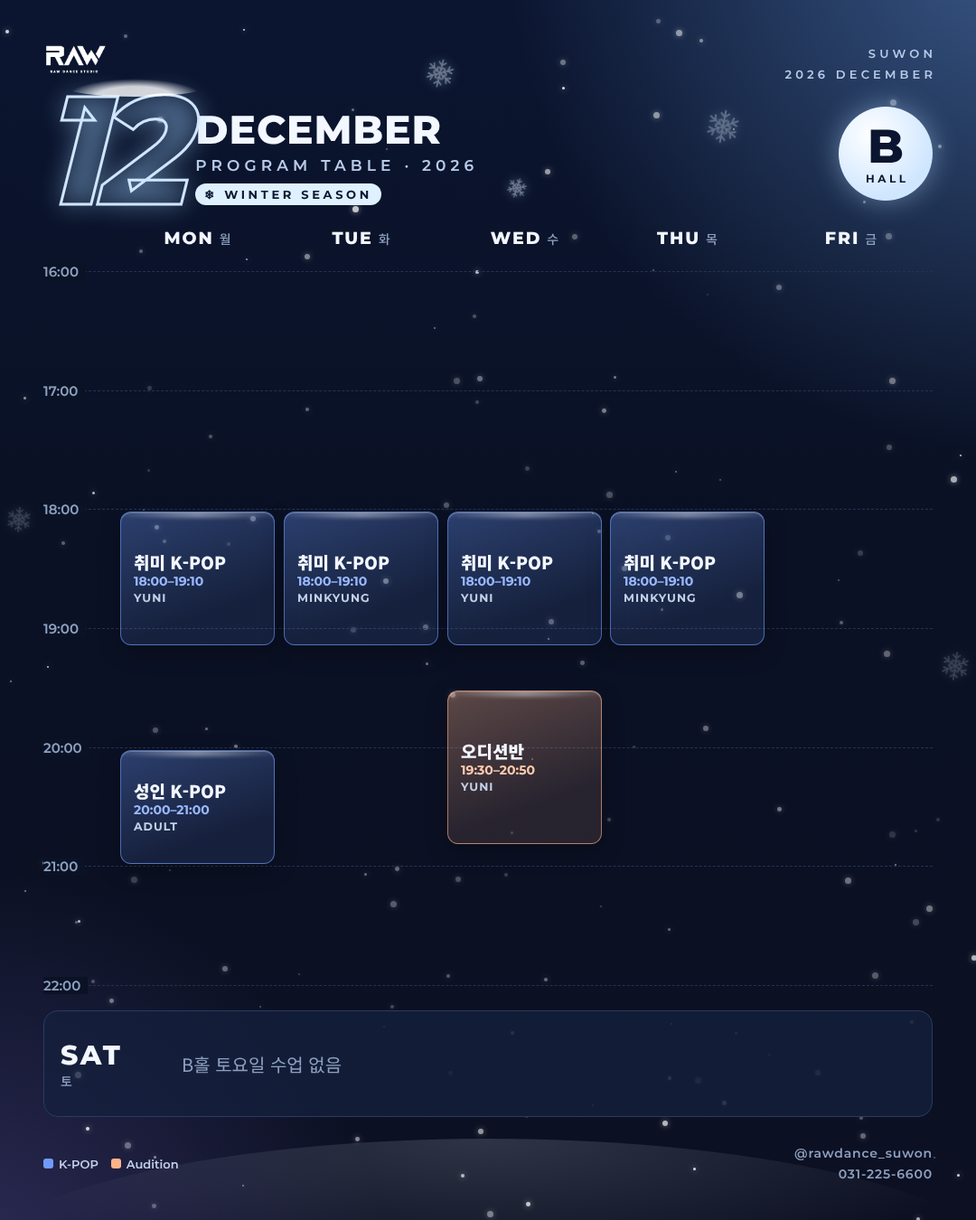
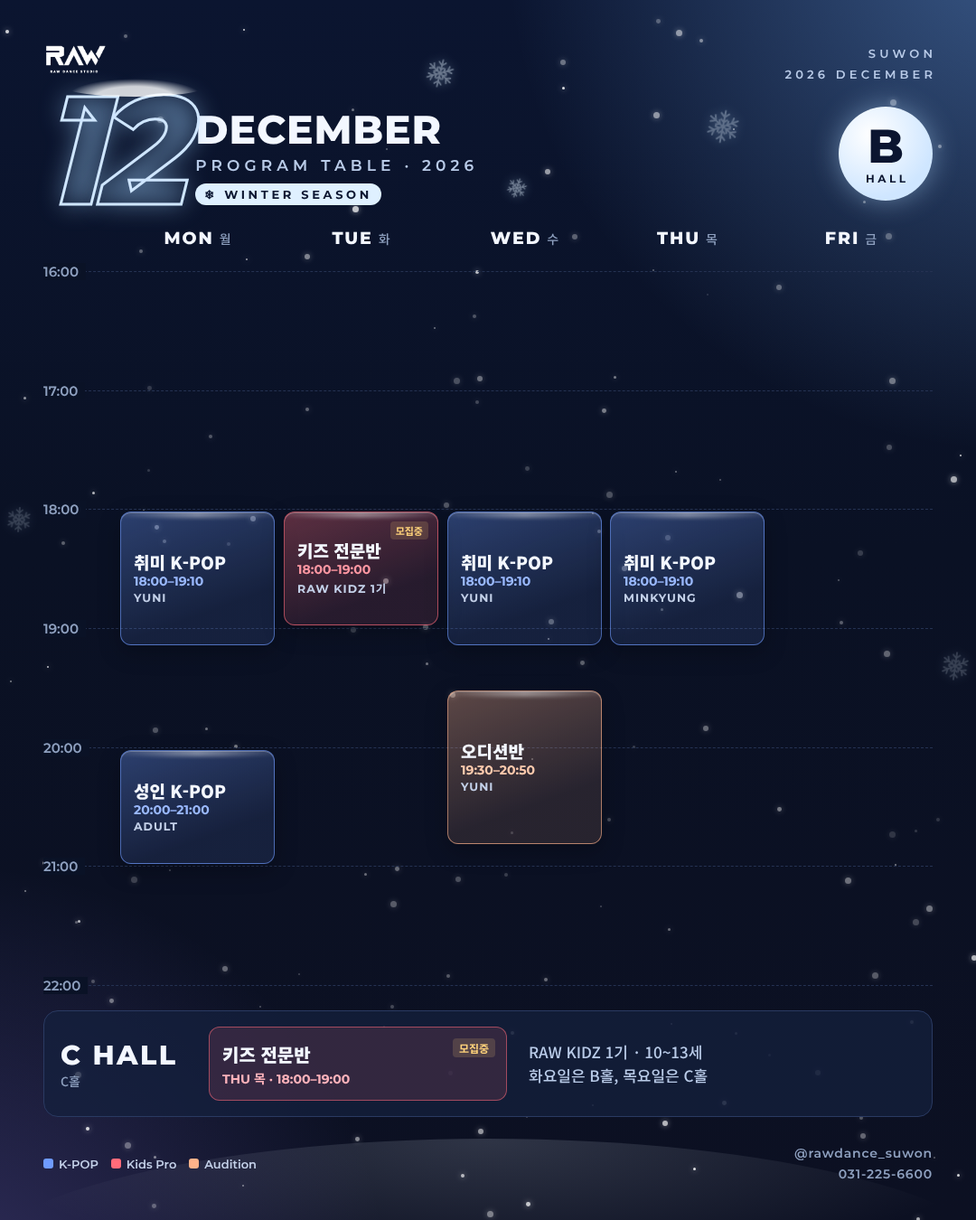
12월 시간표: 화 키즈 전문반(B홀)·목 키즈 전문반(C홀 띠), 화 취미 K-POP 삭제
Claude-Session: https://claude.ai/code/session_01CMPXWNa21Fqq6srPZpa27D

diff --git a/content/2026-12-01_timetable-december/hall-b-2026-12-reels.html b/content/2026-12-01_timetable-december/hall-b-2026-12-reels.html
@@ -37,6 +37,9 @@ body{background:linear-gradient(180deg,#0b1530 0%,#0a1124 45%,#0c1022 100%);colo
 .sc b{font-family:"Noto Sans KR";font-weight:900;font-size:20px}.sc span{font-size:14px;font-weight:700;color:#a9c8ff}
 .sc em{position:absolute;right:12px;top:12px;font-style:normal;font-family:"Noto Sans KR";font-size:12px;font-weight:700;color:#ffd27a;background:rgba(255,210,122,.16);padding:2px 7px;border-radius:4px}
 .sat.empty p{font-family:"Noto Sans KR";font-size:20px;color:#8ea0bf}
+.sc.kp{flex:0 0 330px;border-color:rgba(255,107,122,.55);background:rgba(255,107,122,.14)}.sc.kp span{color:#ffb3bb}
+.cn{font-family:"Noto Sans KR";font-size:17px;font-weight:500;line-height:1.55;color:#b9cbe8;margin-left:10px}
+.bd{position:absolute;right:10px;top:10px;font-style:normal;font-family:"Noto Sans KR";font-size:11px;font-weight:700;color:#ffd27a;background:rgba(255,210,122,.16);padding:2px 6px;border-radius:4px}
 .ft{position:absolute;left:48px;right:48px;bottom:250px;display:flex;justify-content:space-between;align-items:center}
 .lg{display:flex;flex-wrap:wrap;gap:6px 14px;font-size:13px;font-weight:600;color:#c3d0e8;max-width:700px}
 .lg span{display:flex;align-items:center;gap:6px}.lg i{display:block;width:11px;height:11px;border-radius:3px}
@@ -46,6 +49,6 @@ body{background:linear-gradient(180deg,#0b1530 0%,#0a1124 45%,#0c1022 100%);colo
 <div class="top"><img src="raw-logo.png"><div class="r">SUWON<br>2026 DECEMBER</div></div>
 <div class="hero"><div class="n"><div class="cap"></div>12</div><div class="t"><b>DECEMBER</b><span>PROGRAM TABLE · 2026</span><em>❄ WINTER SEASON</em></div></div>
 <div class="hall"><b>B</b><span>HALL</span></div>
-<div class="dh" style="left:128px;width:181px">MON<small>월</small></div><div class="dh" style="left:309px;width:181px">TUE<small>화</small></div><div class="dh" style="left:490px;width:181px">WED<small>수</small></div><div class="dh" style="left:670px;width:181px">THU<small>목</small></div><div class="dh" style="left:851px;width:181px">FRI<small>금</small></div><div class="rl" style="top:540px"><span>16:00</span></div><div class="rl" style="top:690px"><span>17:00</span></div><div class="rl" style="top:840px"><span>18:00</span></div><div class="rl" style="top:990px"><span>19:00</span></div><div class="rl" style="top:1140px"><span>20:00</span></div><div class="rl" style="top:1290px"><span>21:00</span></div><div class="rl" style="top:1440px"><span>22:00</span></div><div class="b" style="left:133px;top:843px;width:171px;height:169px;--c:#6f9bff"><b>취미 K-POP</b><span>18:00–19:10</span><small>YUNI</small></div><div class="b" style="left:314px;top:843px;width:171px;height:169px;--c:#6f9bff"><b>취미 K-POP</b><span>18:00–19:10</span><small>MINKYUNG</small></div><div class="b" style="left:495px;top:843px;width:171px;height:169px;--c:#6f9bff"><b>취미 K-POP</b><span>18:00–19:10</span><small>YUNI</small></div><div class="b" style="left:675px;top:843px;width:171px;height:169px;--c:#6f9bff"><b>취미 K-POP</b><span>18:00–19:10</span><small>MINKYUNG</small></div><div class="b" style="left:495px;top:1068px;width:171px;height:194px;--c:#ffb38a"><b>오디션반</b><span>19:30–20:50</span><small>YUNI</small></div><div class="b" style="left:133px;top:1143px;width:171px;height:144px;--c:#6f9bff"><b>성인 K-POP</b><span>20:00–21:00</span><small>ADULT</small></div><div class="sat empty"><div class="sl">SAT<small>토</small></div><p>B홀 토요일 수업 없음</p></div>
-<div class="ft"><div class="lg"><span><i style="background:#6f9bff"></i>K-POP</span><span><i style="background:#ffb38a"></i>Audition</span></div><div class="ct">@rawdance_suwon<br>031-225-6600</div></div>
+<div class="dh" style="left:128px;width:181px">MON<small>월</small></div><div class="dh" style="left:309px;width:181px">TUE<small>화</small></div><div class="dh" style="left:490px;width:181px">WED<small>수</small></div><div class="dh" style="left:670px;width:181px">THU<small>목</small></div><div class="dh" style="left:851px;width:181px">FRI<small>금</small></div><div class="rl" style="top:540px"><span>16:00</span></div><div class="rl" style="top:690px"><span>17:00</span></div><div class="rl" style="top:840px"><span>18:00</span></div><div class="rl" style="top:990px"><span>19:00</span></div><div class="rl" style="top:1140px"><span>20:00</span></div><div class="rl" style="top:1290px"><span>21:00</span></div><div class="rl" style="top:1440px"><span>22:00</span></div><div class="b" style="left:133px;top:843px;width:171px;height:169px;--c:#6f9bff"><b>취미 K-POP</b><span>18:00–19:10</span><small>YUNI</small></div><div class="b" style="left:495px;top:843px;width:171px;height:169px;--c:#6f9bff"><b>취미 K-POP</b><span>18:00–19:10</span><small>YUNI</small></div><div class="b" style="left:675px;top:843px;width:171px;height:169px;--c:#6f9bff"><b>취미 K-POP</b><span>18:00–19:10</span><small>MINKYUNG</small></div><div class="b" style="left:314px;top:843px;width:171px;height:144px;--c:#ff6b7a"><b>키즈 전문반</b><span>18:00–19:00</span><small>RAW KIDZ 1기</small><em class="bd">모집중</em></div><div class="b" style="left:495px;top:1068px;width:171px;height:194px;--c:#ffb38a"><b>오디션반</b><span>19:30–20:50</span><small>YUNI</small></div><div class="b" style="left:133px;top:1143px;width:171px;height:144px;--c:#6f9bff"><b>성인 K-POP</b><span>20:00–21:00</span><small>ADULT</small></div><div class="sat"><div class="sl" style="width:150px;white-space:nowrap">C HALL<small>C홀</small></div><div class="sc kp"><b>키즈 전문반</b><span>THU 목 · 18:00–19:00</span><em>모집중</em></div><p class="cn">RAW KIDZ 1기 · 10~13세<br>화요일은 B홀, 목요일은 C홀</p></div>
+<div class="ft"><div class="lg"><span><i style="background:#6f9bff"></i>K-POP</span><span><i style="background:#ff6b7a"></i>Kids Pro</span><span><i style="background:#ffb38a"></i>Audition</span></div><div class="ct">@rawdance_suwon<br>031-225-6600</div></div>
 </body></html>

diff --git a/content/2026-12-01_timetable-december/hall-b-2026-12.html b/content/2026-12-01_timetable-december/hall-b-2026-12.html
@@ -37,6 +37,9 @@ body{background:linear-gradient(180deg,#0b1530 0%,#0a1124 45%,#0c1022 100%);colo
 .sc b{font-family:"Noto Sans KR";font-weight:900;font-size:20px}.sc span{font-size:14px;font-weight:700;color:#a9c8ff}
 .sc em{position:absolute;right:12px;top:12px;font-style:normal;font-family:"Noto Sans KR";font-size:12px;font-weight:700;color:#ffd27a;background:rgba(255,210,122,.16);padding:2px 7px;border-radius:4px}
 .sat.empty p{font-family:"Noto Sans KR";font-size:20px;color:#8ea0bf}
+.sc.kp{flex:0 0 330px;border-color:rgba(255,107,122,.55);background:rgba(255,107,122,.14)}.sc.kp span{color:#ffb3bb}
+.cn{font-family:"Noto Sans KR";font-size:17px;font-weight:500;line-height:1.55;color:#b9cbe8;margin-left:10px}
+.bd{position:absolute;right:10px;top:10px;font-style:normal;font-family:"Noto Sans KR";font-size:11px;font-weight:700;color:#ffd27a;background:rgba(255,210,122,.16);padding:2px 6px;border-radius:4px}
 .ft{position:absolute;left:48px;right:48px;bottom:40px;display:flex;justify-content:space-between;align-items:center}
 .lg{display:flex;flex-wrap:wrap;gap:6px 14px;font-size:13px;font-weight:600;color:#c3d0e8;max-width:700px}
 .lg span{display:flex;align-items:center;gap:6px}.lg i{display:block;width:11px;height:11px;border-radius:3px}
@@ -46,6 +49,6 @@ body{background:linear-gradient(180deg,#0b1530 0%,#0a1124 45%,#0c1022 100%);colo
 <div class="top"><img src="raw-logo.png"><div class="r">SUWON<br>2026 DECEMBER</div></div>
 <div class="hero"><div class="n"><div class="cap"></div>12</div><div class="t"><b>DECEMBER</b><span>PROGRAM TABLE · 2026</span><em>❄ WINTER SEASON</em></div></div>
 <div class="hall"><b>B</b><span>HALL</span></div>
-<div class="dh" style="left:128px;width:181px">MON<small>월</small></div><div class="dh" style="left:309px;width:181px">TUE<small>화</small></div><div class="dh" style="left:490px;width:181px">WED<small>수</small></div><div class="dh" style="left:670px;width:181px">THU<small>목</small></div><div class="dh" style="left:851px;width:181px">FRI<small>금</small></div><div class="rl" style="top:300px"><span>16:00</span></div><div class="rl" style="top:432px"><span>17:00</span></div><div class="rl" style="top:563px"><span>18:00</span></div><div class="rl" style="top:695px"><span>19:00</span></div><div class="rl" style="top:827px"><span>20:00</span></div><div class="rl" style="top:958px"><span>21:00</span></div><div class="rl" style="top:1090px"><span>22:00</span></div><div class="b" style="left:133px;top:566px;width:171px;height:148px;--c:#6f9bff"><b>취미 K-POP</b><span>18:00–19:10</span><small>YUNI</small></div><div class="b" style="left:314px;top:566px;width:171px;height:148px;--c:#6f9bff"><b>취미 K-POP</b><span>18:00–19:10</span><small>MINKYUNG</small></div><div class="b" style="left:495px;top:566px;width:171px;height:148px;--c:#6f9bff"><b>취미 K-POP</b><span>18:00–19:10</span><small>YUNI</small></div><div class="b" style="left:675px;top:566px;width:171px;height:148px;--c:#6f9bff"><b>취미 K-POP</b><span>18:00–19:10</span><small>MINKYUNG</small></div><div class="b" style="left:495px;top:764px;width:171px;height:170px;--c:#ffb38a"><b>오디션반</b><span>19:30–20:50</span><small>YUNI</small></div><div class="b" style="left:133px;top:830px;width:171px;height:126px;--c:#6f9bff"><b>성인 K-POP</b><span>20:00–21:00</span><small>ADULT</small></div><div class="sat empty"><div class="sl">SAT<small>토</small></div><p>B홀 토요일 수업 없음</p></div>
-<div class="ft"><div class="lg"><span><i style="background:#6f9bff"></i>K-POP</span><span><i style="background:#ffb38a"></i>Audition</span></div><div class="ct">@rawdance_suwon<br>031-225-6600</div></div>
+<div class="dh" style="left:128px;width:181px">MON<small>월</small></div><div class="dh" style="left:309px;width:181px">TUE<small>화</small></div><div class="dh" style="left:490px;width:181px">WED<small>수</small></div><div class="dh" style="left:670px;width:181px">THU<small>목</small></div><div class="dh" style="left:851px;width:181px">FRI<small>금</small></div><div class="rl" style="top:300px"><span>16:00</span></div><div class="rl" style="top:432px"><span>17:00</span></div><div class="rl" style="top:563px"><span>18:00</span></div><div class="rl" style="top:695px"><span>19:00</span></div><div class="rl" style="top:827px"><span>20:00</span></div><div class="rl" style="top:958px"><span>21:00</span></div><div class="rl" style="top:1090px"><span>22:00</span></div><div class="b" style="left:133px;top:566px;width:171px;height:148px;--c:#6f9bff"><b>취미 K-POP</b><span>18:00–19:10</span><small>YUNI</small></div><div class="b" style="left:495px;top:566px;width:171px;height:148px;--c:#6f9bff"><b>취미 K-POP</b><span>18:00–19:10</span><small>YUNI</small></div><div class="b" style="left:675px;top:566px;width:171px;height:148px;--c:#6f9bff"><b>취미 K-POP</b><span>18:00–19:10</span><small>MINKYUNG</small></div><div class="b" style="left:314px;top:566px;width:171px;height:126px;--c:#ff6b7a"><b>키즈 전문반</b><span>18:00–19:00</span><small>RAW KIDZ 1기</small><em class="bd">모집중</em></div><div class="b" style="left:495px;top:764px;width:171px;height:170px;--c:#ffb38a"><b>오디션반</b><span>19:30–20:50</span><small>YUNI</small></div><div class="b" style="left:133px;top:830px;width:171px;height:126px;--c:#6f9bff"><b>성인 K-POP</b><span>20:00–21:00</span><small>ADULT</small></div><div class="sat"><div class="sl" style="width:150px;white-space:nowrap">C HALL<small>C홀</small></div><div class="sc kp"><b>키즈 전문반</b><span>THU 목 · 18:00–19:00</span><em>모집중</em></div><p class="cn">RAW KIDZ 1기 · 10~13세<br>화요일은 B홀, 목요일은 C홀</p></div>
+<div class="ft"><div class="lg"><span><i style="background:#6f9bff"></i>K-POP</span><span><i style="background:#ff6b7a"></i>Kids Pro</span><span><i style="background:#ffb38a"></i>Audition</span></div><div class="ct">@rawdance_suwon<br>031-225-6600</div></div>
 </body></html>

diff --git a/content/2026-12-01_timetable-december/hall-a-2026-12-reels.html b/content/2026-12-01_timetable-december/hall-a-2026-12-reels.html
@@ -37,6 +37,9 @@ body{background:linear-gradient(180deg,#0b1530 0%,#0a1124 45%,#0c1022 100%);colo
 .sc b{font-family:"Noto Sans KR";font-weight:900;font-size:20px}.sc span{font-size:14px;font-weight:700;color:#a9c8ff}
 .sc em{position:absolute;right:12px;top:12px;font-style:normal;font-family:"Noto Sans KR";font-size:12px;font-weight:700;color:#ffd27a;background:rgba(255,210,122,.16);padding:2px 7px;border-radius:4px}
 .sat.empty p{font-family:"Noto Sans KR";font-size:20px;color:#8ea0bf}
+.sc.kp{flex:0 0 330px;border-color:rgba(255,107,122,.55);background:rgba(255,107,122,.14)}.sc.kp span{color:#ffb3bb}
+.cn{font-family:"Noto Sans KR";font-size:17px;font-weight:500;line-height:1.55;color:#b9cbe8;margin-left:10px}
+.bd{position:absolute;right:10px;top:10px;font-style:normal;font-family:"Noto Sans KR";font-size:11px;font-weight:700;color:#ffd27a;background:rgba(255,210,122,.16);padding:2px 6px;border-radius:4px}
 .ft{position:absolute;left:48px;right:48px;bottom:250px;display:flex;justify-content:space-between;align-items:center}
 .lg{display:flex;flex-wrap:wrap;gap:6px 14px;font-size:13px;font-weight:600;color:#c3d0e8;max-width:700px}
 .lg span{display:flex;align-items:center;gap:6px}.lg i{display:block;width:11px;height:11px;border-radius:3px}

diff --git a/content/2026-12-01_timetable-december/hall-a-2026-12.html b/content/2026-12-01_timetable-december/hall-a-2026-12.html
@@ -37,6 +37,9 @@ body{background:linear-gradient(180deg,#0b1530 0%,#0a1124 45%,#0c1022 100%);colo
 .sc b{font-family:"Noto Sans KR";font-weight:900;font-size:20px}.sc span{font-size:14px;font-weight:700;color:#a9c8ff}
 .sc em{position:absolute;right:12px;top:12px;font-style:normal;font-family:"Noto Sans KR";font-size:12px;font-weight:700;color:#ffd27a;background:rgba(255,210,122,.16);padding:2px 7px;border-radius:4px}
 .sat.empty p{font-family:"Noto Sans KR";font-size:20px;color:#8ea0bf}
+.sc.kp{flex:0 0 330px;border-color:rgba(255,107,122,.55);background:rgba(255,107,122,.14)}.sc.kp span{color:#ffb3bb}
+.cn{font-family:"Noto Sans KR";font-size:17px;font-weight:500;line-height:1.55;color:#b9cbe8;margin-left:10px}
+.bd{position:absolute;right:10px;top:10px;font-style:normal;font-family:"Noto Sans KR";font-size:11px;font-weight:700;color:#ffd27a;background:rgba(255,210,122,.16);padding:2px 6px;border-radius:4px}
 .ft{position:absolute;left:48px;right:48px;bottom:40px;display:flex;justify-content:space-between;align-items:center}
 .lg{display:flex;flex-wrap:wrap;gap:6px 14px;font-size:13px;font-weight:600;color:#c3d0e8;max-width:700px}
 .lg span{display:flex;align-items:center;gap:6px}.lg i{display:block;width:11px;height:11px;border-radius:3px}

diff --git a/tools/daily-story/template.html b/tools/daily-story/template.html
@@ -44,7 +44,7 @@ body{background:#0e0d12;color:#f4f2ee;font-family:Montserrat,"Noto Sans KR",sans
 <div id="eq"></div>
 <div id="cta"><div class="l"><b>체험·문의</b> 인스타 DM<br>카카오톡 '로우댄스수원점학원'</div><div class="r">@RAWDANCE_SUWON<br>031-225-6600</div></div>
 <script>
-const COL={kpop:"#6d4fe0",basic:"#4656c8",pro:"#f5be46",heel:"#9b45c4",girlish:"#c0559f",waack:"#3a78cc",hiphop:"#54409e",jazz:"#7e3aa8",choreo:"#8577f0",adult:"#b9a6ff",pop:"#4fb7d6"};
+const COL={kpop:"#6d4fe0",basic:"#4656c8",pro:"#f5be46",heel:"#9b45c4",girlish:"#c0559f",waack:"#3a78cc",hiphop:"#54409e",jazz:"#7e3aa8",choreo:"#8577f0",adult:"#b9a6ff",pop:"#4fb7d6",kpro:"#e0475a"};
 const $=id=>document.getElementById(id);
 const ease=x=>1-Math.pow(1-Math.min(Math.max(x,0),1),3);
 const back=x=>{x=Math.min(Math.max(x,0),1);const c=1.6;return 1+(c+1)*Math.pow(x-1,3)+c*Math.pow(x-1,2)};

diff --git a/content/2026-12-01_timetable-december/make_dec.py b/content/2026-12-01_timetable-december/make_dec.py
@@ -9,9 +9,9 @@ from pathlib import Path
 HERE = Path(__file__).parent
 POP_T = "SUNGMI"
 C = {"kpop": "#6f9bff", "basic": "#5cc4ff", "pro": "#ffd27a", "pop": "#7ff0ff", "girlish": "#ff9ed2",
-     "waack": "#4fd8c8", "hiphop": "#9a8cff", "jazz": "#c29bff", "choreo": "#a9d8ff", "open": "#ffd27a", "aud": "#ffb38a"}
+     "waack": "#4fd8c8", "hiphop": "#9a8cff", "jazz": "#c29bff", "choreo": "#a9d8ff", "open": "#ffd27a", "aud": "#ffb38a", "kpro": "#ff6b7a"}
 NAMES = {"kpop": "K-POP", "basic": "Basic", "pro": "PRO", "pop": "Popping", "girlish": "Girlish", "waack": "Waacking",
-         "hiphop": "Hip Hop", "jazz": "Jazz", "choreo": "Choreo", "aud": "Audition"}
+         "hiphop": "Hip Hop", "jazz": "Jazz", "choreo": "Choreo", "aud": "Audition", "kpro": "Kids Pro"}
 WD = ["MON", "TUE", "WED", "THU", "FRI"]; KR = {"MON": "월", "TUE": "화", "WED": "수", "THU": "목", "FRI": "금"}
 A = []
 for d, t in [("MON", "YUNI"), ("TUE", "MINKYUNG"), ("WED", "YUNI"), ("THU", "MINKYUNG")]:
@@ -27,7 +27,11 @@ A += [("TUE", 18.5, 19 + 40 / 60, "BASIC", "18:30–19:40", "GAON", "basic"), ("
       ("WED", 20 + 50 / 60, 22, "JAZZ", "20:50–22:00", "KIRY", "jazz"),
       ("THU", 20 + 50 / 60, 22, "CHOREO", "20:50–22:00", "HWAN.U", "choreo")]
 SAT_A = [("유아 K-POP", "13:00–14:00"), ("키즈 K-POP", "14:00–15:00"), ("취미 K-POP", "15:00–16:10")]
-B = [(d, 18, 19 + 10 / 60, "취미 K-POP", "18:00–19:10", t, "kpop") for d, t in [("MON", "YUNI"), ("TUE", "MINKYUNG"), ("WED", "YUNI"), ("THU", "MINKYUNG")]]
+# 원장님 2026-11-26: 화 취미 K-POP → 키즈 전문반 시간(B홀), 목 취미 K-POP 유지, 목 18:00~19:00 키즈 전문반은 C홀 → C홀은 따로 표 없이 B홀 표 아래 띠로
+B = [(d, 18, 19 + 10 / 60, "취미 K-POP", "18:00–19:10", t, "kpop") for d, t in [("MON", "YUNI"), ("WED", "YUNI"), ("THU", "MINKYUNG")]]
+KPRO_T = "RAW KIDZ 1기"   # 키즈 전문반 쌤: 원장님 확인 전
+B += [("TUE", 18, 19, "키즈 전문반", "18:00–19:00", KPRO_T, "kpro", "모집중")]
+C_HALL = [("THU", "목", "키즈 전문반", "18:00–19:00", KPRO_T)]
 B += [("WED", 19.5, 20 + 50 / 60, "오디션반", "19:30–20:50", "YUNI", "aud")]
 ADULT_T = "ADULT"   # 월 성인 K-POP 쌤: 원장님 확인 전이라 이름 대신 대상 표시
 B += [("MON", 20, 21, "성인 K-POP", "20:00–21:00", ADULT_T, "kpop")]
@@ -44,11 +48,11 @@ FLAKE = '<svg viewBox="-50 -50 100 100"><g stroke="currentColor" stroke-width="5
     f'<g transform="rotate({a})"><line x1="0" y1="0" x2="0" y2="-44"/><line x1="0" y1="-26" x2="-11" y2="-36"/><line x1="0" y1="-26" x2="11" y2="-36"/><line x1="0" y1="-12" x2="-8" y2="-19"/><line x1="0" y1="-12" x2="8" y2="-19"/></g>'
     for a in range(0, 360, 60)) + '</g></svg>'
 
-def blk(d, s, e, name, tm, sub, key):
+def blk(d, s, e, name, tm, sub, key, badge=None):
     x = GX + WD.index(d) * CW + 5; y = GY + (s - T0) * PX + 3; w = CW - 10; h = (e - s) * PX - 6; c = C[key]
     small = ' style="font-size:16px"' if len(name) > 10 else ""
     return (f'<div class="b" style="left:{x:.0f}px;top:{y:.0f}px;width:{w:.0f}px;height:{h:.0f}px;--c:{c}">'
-            f'<b{small}>{name}</b><span>{tm}</span><small>{sub}</small></div>')
+            f'<b{small}>{name}</b><span>{tm}</span><small>{sub}</small>' + (f'<em class="bd">{badge}</em>' if badge else '') + '</div>')
 
 def snow(seed, n=150):
     random.seed(seed); out = []
@@ -67,14 +71,16 @@ def page(hall, blocks, sat):
     for b in blocks:
         if b[6] not in keys: keys.append(b[6])
     if sat and "kpop" not in keys: keys.insert(0, "kpop")
+    if not sat and "kpro" not in keys: keys.append("kpro")
     leg = "".join(f'<span><i style="background:{C[k]}"></i>{NAMES[k]}</span>' for k in keys)
     ruler = "".join(f'<div class="rl" style="top:{GY+(t-T0)*PX:.0f}px"><span>{t}:00</span></div>' for t in range(T0, T1 + 1))
     heads = "".join(f'<div class="dh" style="left:{GX+i*CW:.0f}px;width:{CW:.0f}px">{d}<small>{KR[d]}</small></div>' for i, d in enumerate(WD))
     if sat:
         chips = "".join(f'<div class="sc"><b>{n}</b><span>{tm}</span><em>모집중</em></div>' for n, tm in sat)
         satband = f'<div class="sat"><div class="sl">SAT<small>토</small><i>REGINA</i></div>{chips}</div>'
-    else:
-        satband = '<div class="sat empty"><div class="sl">SAT<small>토</small></div><p>B홀 토요일 수업 없음</p></div>'
+    else:   # B홀 표: 토요일 수업이 없어서 그 자리에 C홀(키즈 전문반) 띠
+        cc = "".join(f'<div class="sc kp"><b>{n}</b><span>{d} {kr} · {tm}</span><em>모집중</em></div>' for d, kr, n, tm, t in C_HALL)
+        satband = f'<div class="sat"><div class="sl" style="width:150px;white-space:nowrap">C HALL<small>C홀</small></div>{cc}<p class="cn">RAW KIDZ 1기 · 10~13세<br>화요일은 B홀, 목요일은 C홀</p></div>'
     return f"""<!doctype html><html lang="ko"><head><meta charset="utf-8"><style>
 *{{box-sizing:border-box;margin:0;padding:0}}html,body{{width:1080px;height:{H}px}}
 body{{background:linear-gradient(180deg,#0b1530 0%,#0a1124 45%,#0c1022 100%);color:#f3f7ff;font-family:Montserrat,"Noto Sans KR",sans-serif;position:relative;overflow:hidden}}
@@ -114,6 +120,9 @@ body{{background:linear-gradient(180deg,#0b1530 0%,#0a1124 45%,#0c1022 100%);col
 .sc b{{font-family:"Noto Sans KR";font-weight:900;font-size:20px}}.sc span{{font-size:14px;font-weight:700;color:#a9c8ff}}
 .sc em{{position:absolute;right:12px;top:12px;font-style:normal;font-family:"Noto Sans KR";font-size:12px;font-weight:700;color:#ffd27a;background:rgba(255,210,122,.16);padding:2px 7px;border-radius:4px}}
 .sat.empty p{{font-family:"Noto Sans KR";font-size:20px;color:#8ea0bf}}
+.sc.kp{{flex:0 0 330px;border-color:rgba(255,107,122,.55);background:rgba(255,107,122,.14)}}.sc.kp span{{color:#ffb3bb}}
+.cn{{font-family:"Noto Sans KR";font-size:17px;font-weight:500;line-height:1.55;color:#b9cbe8;margin-left:10px}}
+.bd{{position:absolute;right:10px;top:10px;font-style:normal;font-family:"Noto Sans KR";font-size:11px;font-weight:700;color:#ffd27a;background:rgba(255,210,122,.16);padding:2px 6px;border-radius:4px}}
 .ft{{position:absolute;left:48px;right:48px;bottom:{FB}px;display:flex;justify-content:space-between;align-items:center}}
 .lg{{display:flex;flex-wrap:wrap;gap:6px 14px;font-size:13px;font-weight:600;color:#c3d0e8;max-width:700px}}
 .lg span{{display:flex;align-items:center;gap:6px}}.lg i{{display:block;width:11px;height:11px;border-radius:3px}}

diff --git a/brand/brand-guide.md b/brand/brand-guide.md
@@ -108,7 +108,7 @@
   - **팝업·대강 (2026-11-07 원장님):** 11/12(목) 19:40 HIP HOP NOFF 대신 **HWAYA 팝업** / 11/16(월) 20:50 CHOREO RAEKU 대신 **BEI 팝업**. 나머지는 정상 (바뀌면 원장님이 알려 줌). 스토리 영상은 `tools/daily-story/extra.json`에 반영.
 - **지난주 선생님 영상(15초)은 스토리용이라 캡션을 만들지 않는다** (원장님 2026-11-11). 예전 규칙: 캡션에는 곡 이름(🎵 Track 줄)을 넣지 않는다 (원장님 2026-11-07: "곡 필요없잖아").
   - **성인 K-POP반 신설:** 월·수 19:30~20:30, T. YUNI, 대상 성인, 주 2회. 홀 [확인필요], 교습비 [확인필요], 첫 수업일 [확인필요], 무료 체험 여부 [확인필요]. 교습비 확정 전에는 금액을 지어내지 않는다.
-- **2026년 12월 (2026-11-23 원장님, "동일할 거 같은데"):** 11월 시간표와 같음. 단 **성인 K-POP반 없어짐**(월·수 19:30), **수요일 19:30~20:50 오디션반(YUNI, B홀) 다시 시작.** **월 19:40 힐코레오(HEEONE) → 팝핑(POPPING)** (원장님 2026-11-25. 쌤은 11/23 팝업 SUNGMI로 넣음 — 확인 필요). ~~확정 전 예상이므로 12월 콘텐츠에서 성인 K-POP을 안내하지 않고~~ → **2026-11-26 원장님: "월요일 8:00~9:00 성인 케이팝 B홀" — 12월 성인 K-POP 월 20:00~21:00 B홀 (주 1회, 쌤 [확인필요]), "오디션 수요일 복귀"(수 19:30~20:50 B홀 YUNI).** 스토리용 시간표 `tools/daily-story/schedule-2026-12.json`
+- **2026년 12월 (2026-11-23 원장님, "동일할 거 같은데"):** 11월 시간표와 같음. 단 **성인 K-POP반 없어짐**(월·수 19:30), **수요일 19:30~20:50 오디션반(YUNI, B홀) 다시 시작.** **월 19:40 힐코레오(HEEONE) → 팝핑(POPPING)** (원장님 2026-11-25. 쌤은 11/23 팝업 SUNGMI로 넣음 — 확인 필요). ~~확정 전 예상이므로 12월 콘텐츠에서 성인 K-POP을 안내하지 않고~~ → **2026-11-26 원장님: "월요일 8:00~9:00 성인 케이팝 B홀" — 12월 성인 K-POP 월 20:00~21:00 B홀 (주 1회, 쌤 [확인필요]), "오디션 수요일 복귀"(수 19:30~20:50 B홀 YUNI).** **2026-11-26 원장님: 화요일 취미 K-POP(B홀 18:00) → 키즈 전문반 시간으로 변경, 목요일 취미 K-POP 유지, 목 18:00~19:00 키즈 전문반 C홀** → 12월 취미 K-POP은 월·수·목. 키즈 전문반 주 2회 = 화 18:00~19:00 B홀(시간 확인 필요) + 목 18:00~19:00 C홀, 쌤 [확인필요]. 시간표 이미지는 C홀 표를 따로 만들지 않고 B홀 표 아래 띠로 넣음 스토리용 시간표 `tools/daily-story/schedule-2026-12.json`
 - 시간표가 바뀌면 이 표들과 이미지를 함께 교체한다.
 
 - 체험수업: **K-POP반만 무료 체험 가능** (전문반·장르 클래스는 체험 없음)

diff --git a/content/2026-12-01_timetable-december/instagram.md b/content/2026-12-01_timetable-december/instagram.md
@@ -27,3 +27,8 @@ A홀·B홀 시간표는 옆으로 넘겨서 확인해 주세요
 - B홀 월 20:00~21:00 성인 K-POP 추가 (쌤 이름 확인 전이라 블록에 ADULT 표시). 오디션반 수 19:30~20:50 YUNI는 그대로
 - 릴스판 1080x1920: `hall-a-2026-12-reels.png`, `hall-b-2026-12-reels.png` (위 220·아래 260px 비움, 인스타 화면 글자 자리). 피드판(1080x1350)도 같이 갱신
 - 스토리 시간표 `tools/daily-story/schedule-2026-12.json` 월요일에도 추가 (장르 수업 아니라 스토리 예약 순서는 그대로)
+
+## 2026-11-26 수정 2 (원장님 "화목 취미 케이팝이 화요일은 키즈전문반 시간으로, 목요일은 취미 케이팝, 목 6:00~7:00 키즈전문반 C홀 — C홀은 하나여도 만들어야 하나")
+- C홀 표는 따로 안 만들고 B홀 표 아래 띠(토요일 B홀 수업이 없어 그 자리)에 "C HALL · 키즈 전문반 THU 목 18:00~19:00 모집중"
+- B홀 화 18:00~19:00 키즈 전문반(모집중) — 화요일 시간은 목요일과 같게 넣음, 확인 필요. 쌤 이름 대신 "RAW KIDZ 1기"
+- 범례에 Kids Pro(빨강) 추가, 스토리 시간표 색 kpro 추가
